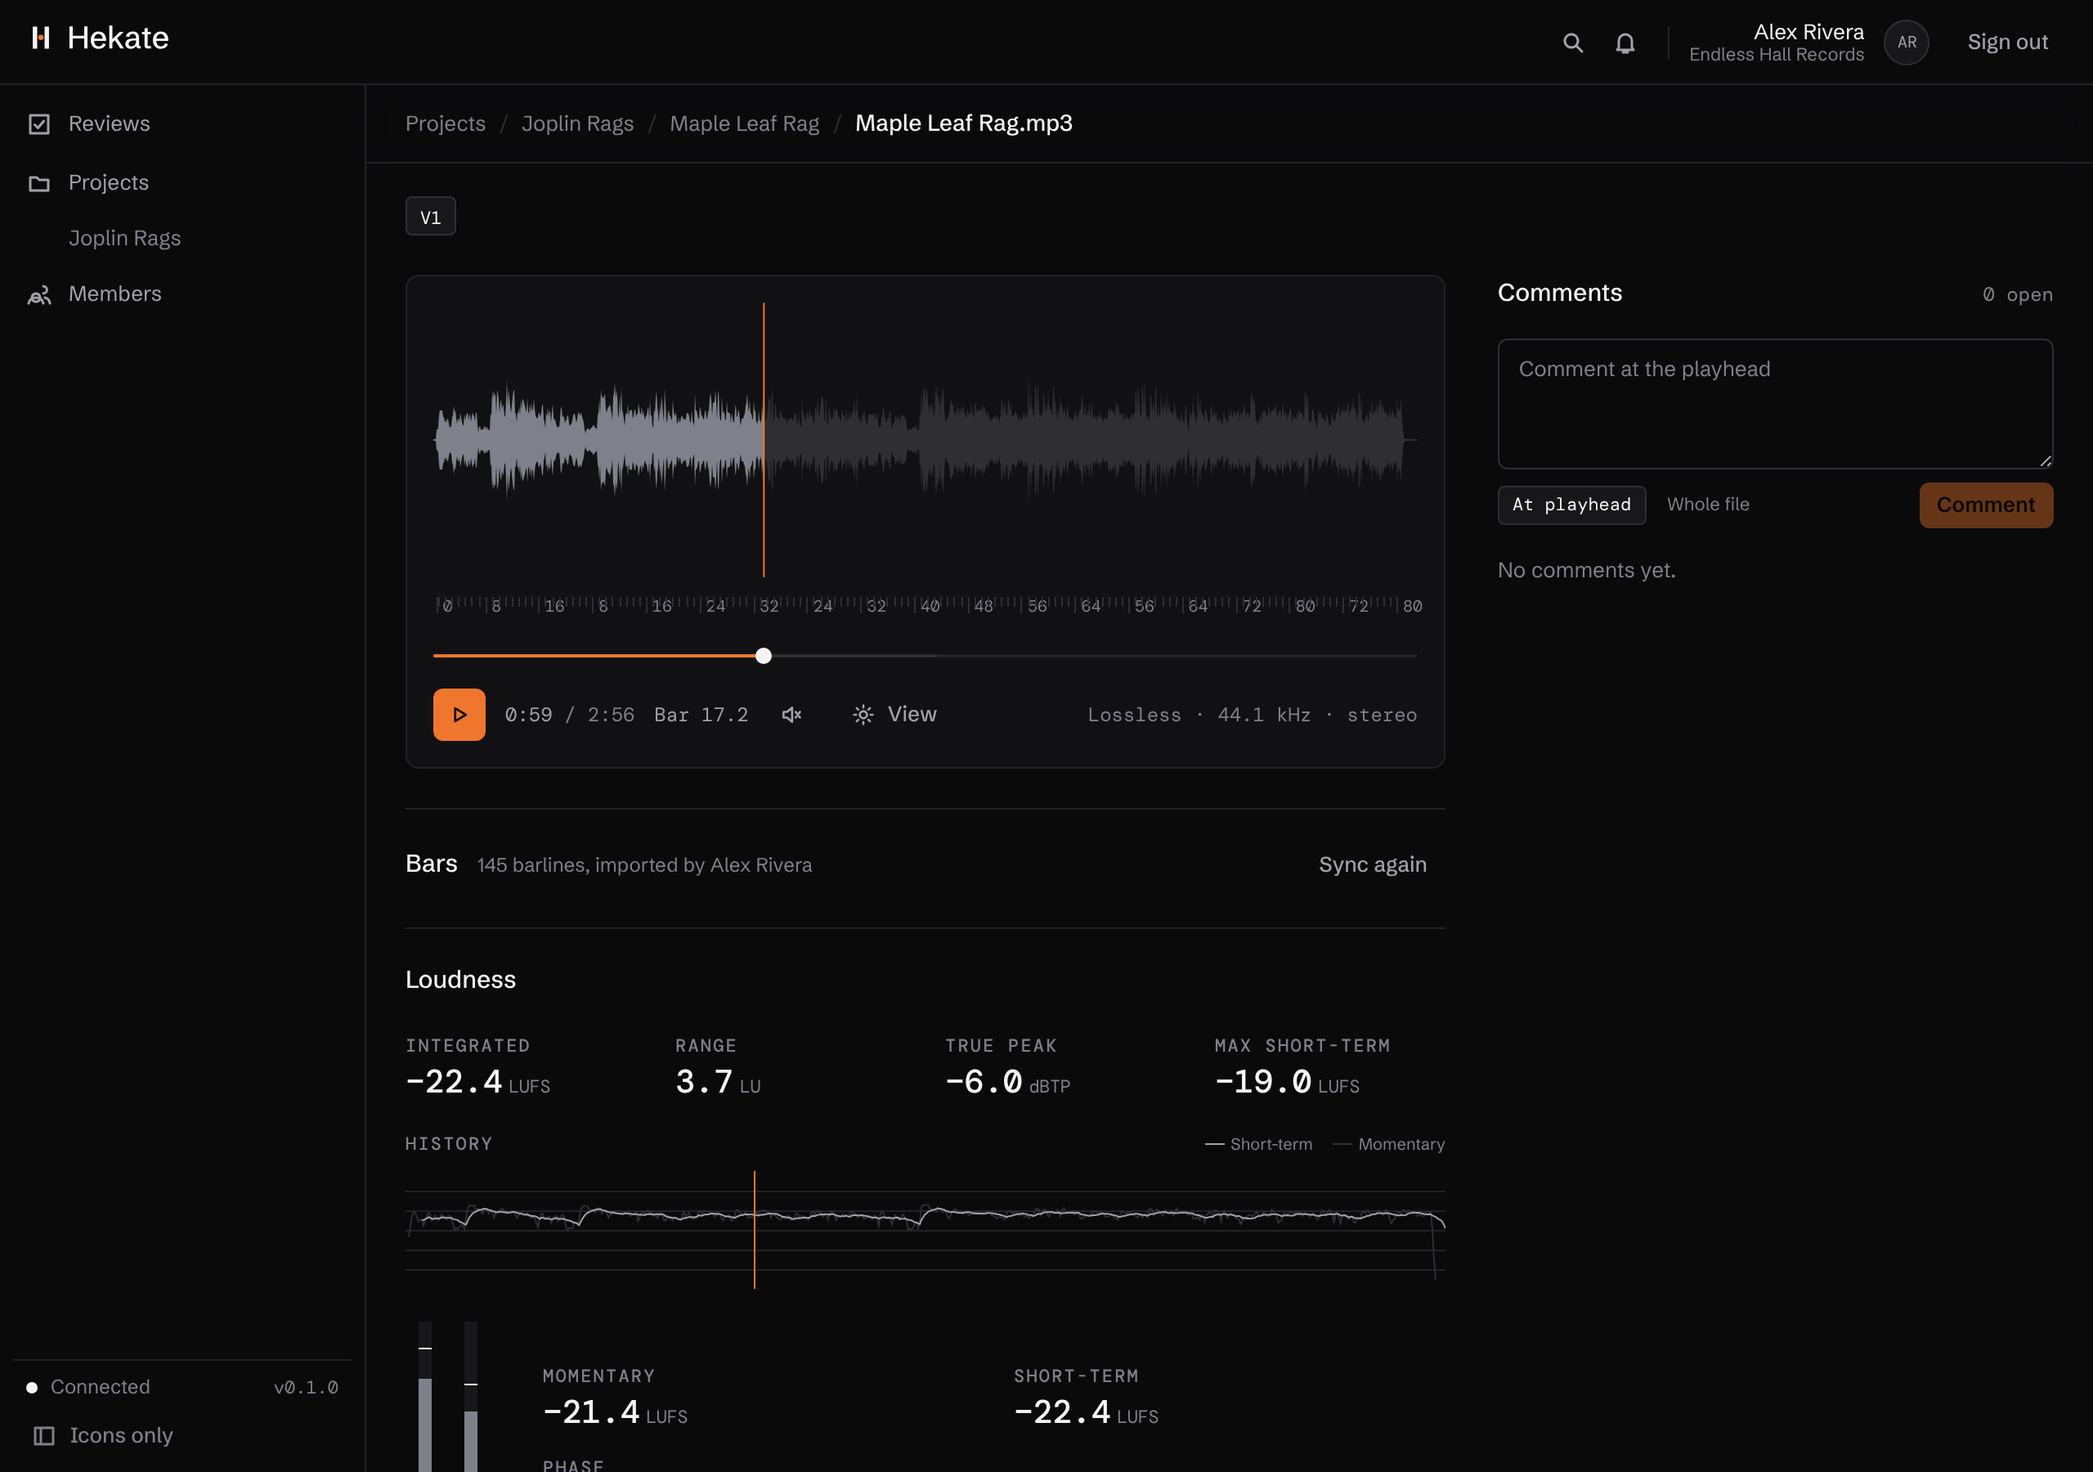
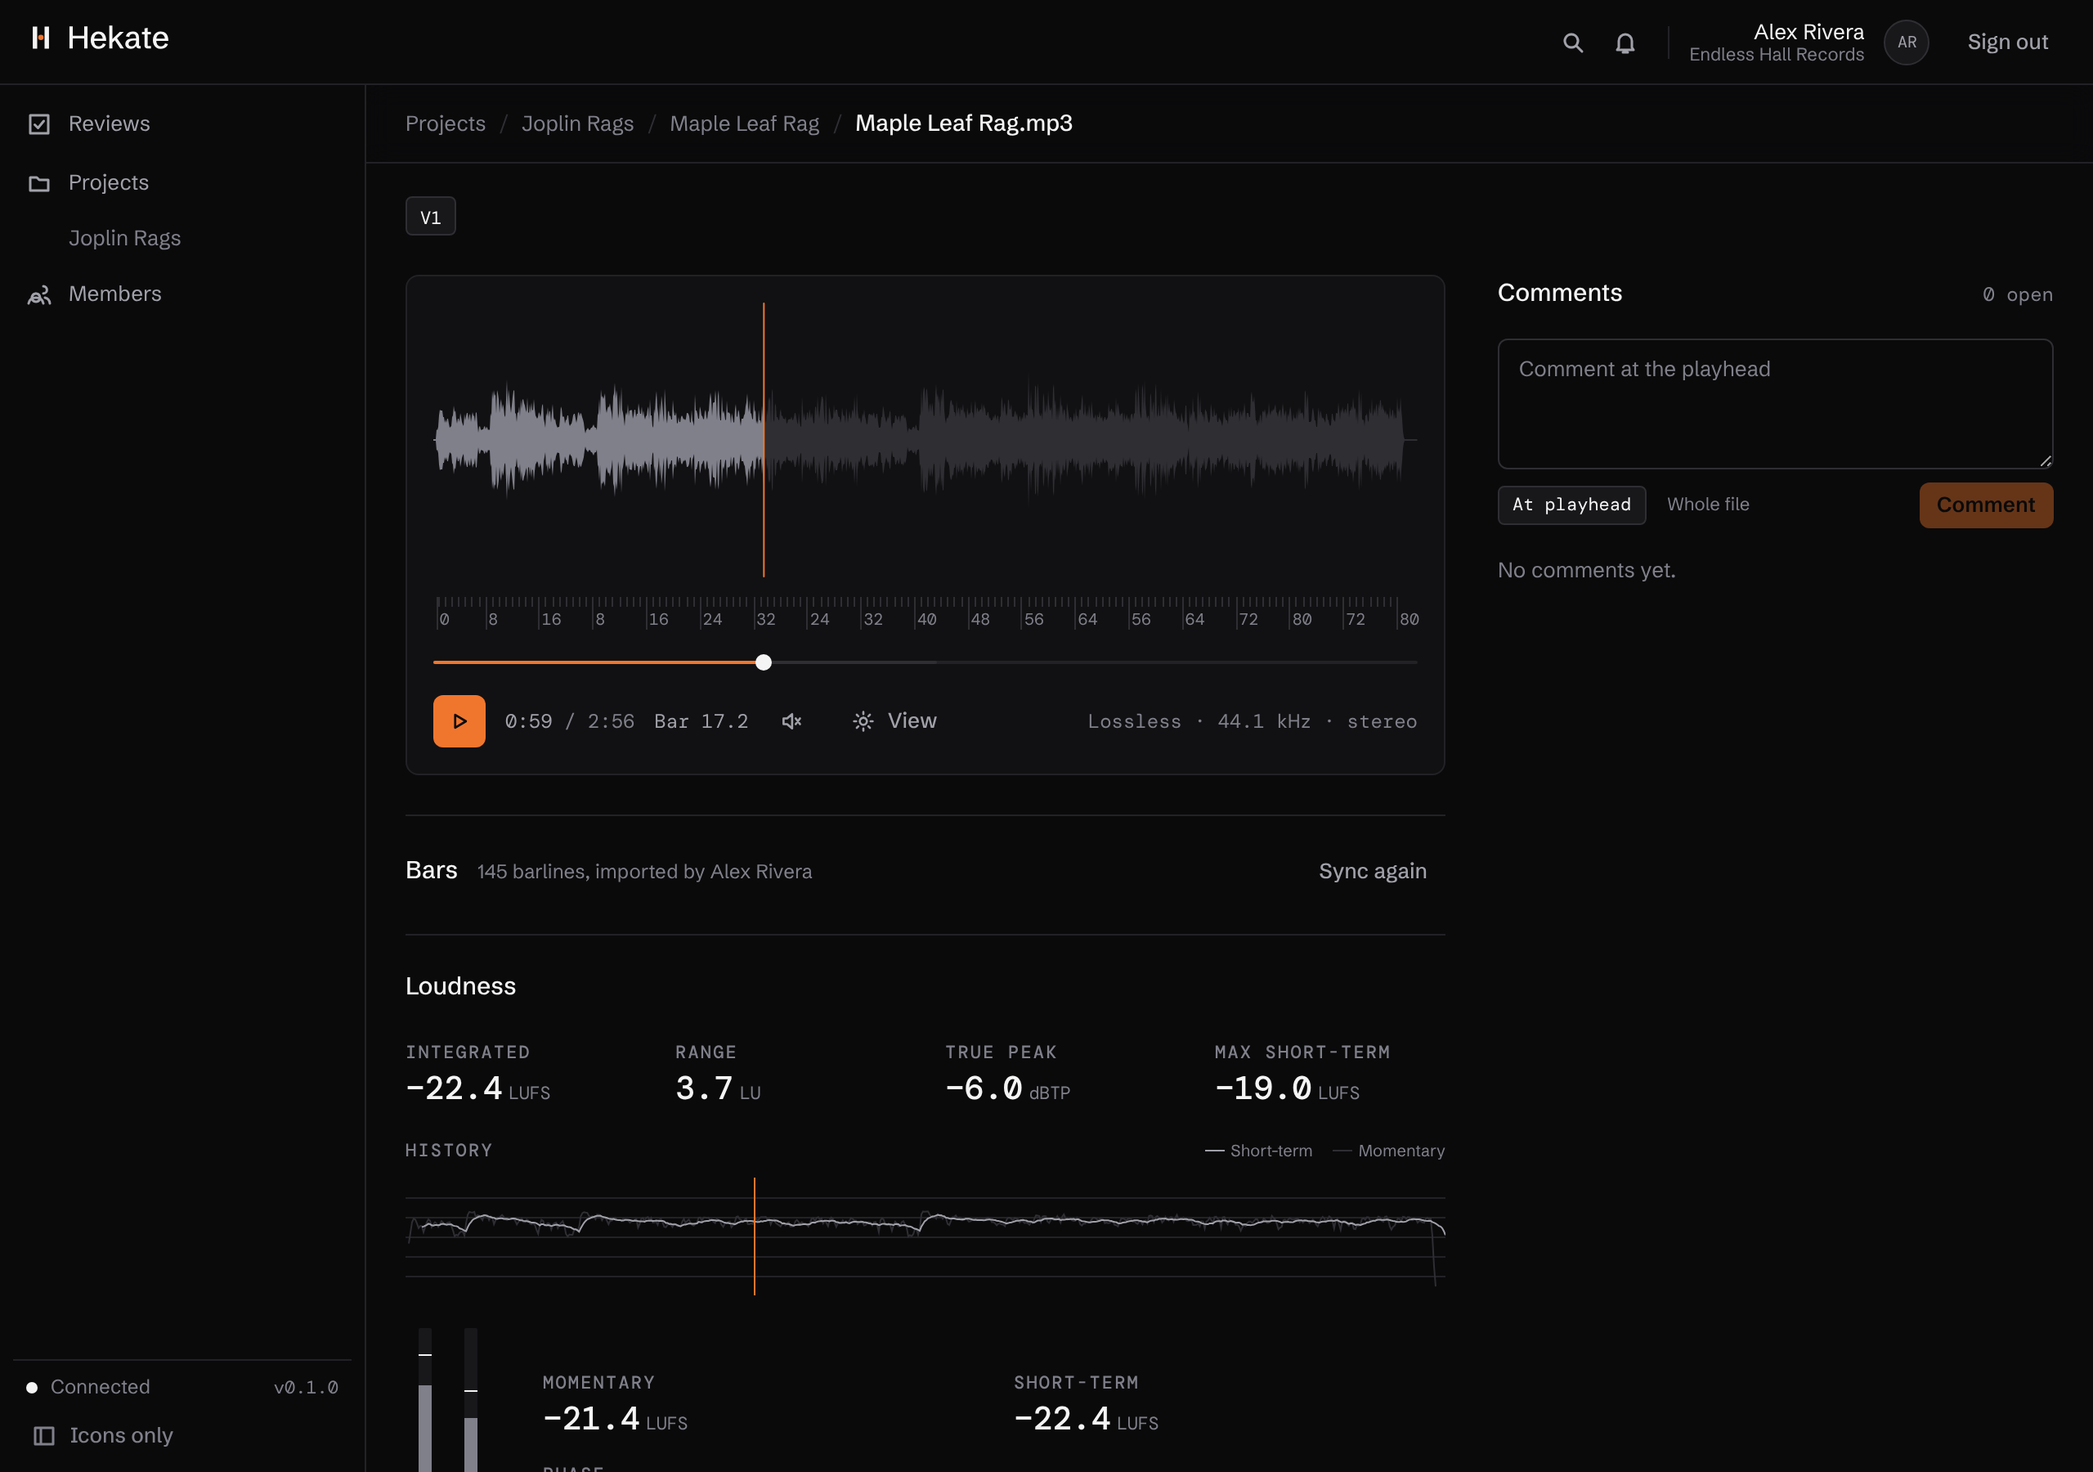
fix: bars only in music projects, comments on an upbeat, a ruler you can hit
- Bar maps and bar comments are refused outside music projects, on the
  server and in the interface; the file detail carries the profile.
- Bar 0, an upbeat, is a valid bar anchor.
- Each number on the bar ruler is a 28 px target, set below the ticks.

Claude-Session: https://claude.ai/code/session_01NFVnDKxWxdqH1wjHhzokRU

diff --git a/apps/server/src/routes/comments.ts b/apps/server/src/routes/comments.ts
@@ -23,7 +23,7 @@ import { NotFound } from "../errors.ts";
 import type { ViewerVariables } from "../guests.ts";
 import type { TenantVariables } from "../tenancy.ts";
 
-const { comments, commentCarries, files, users, guests } = schema;
+const { comments, commentCarries, files, projects, users, guests } = schema;
 const resolver = alias(users, "resolver");
 
 const idParam = zValidator("param", z.object({ id: z.uuid() }));
@@ -177,8 +177,13 @@ export const fileCommentRoutes = (db: Database, audit: Audit, trustProxy: boolea
           mediaInfo: files.mediaInfo,
           pageCount: files.pageCount,
           projectId: files.projectId,
+          profile: projects.profile,
         })
         .from(files)
+        .innerJoin(
+          projects,
+          and(eq(projects.id, files.projectId), eq(projects.organisationId, organisationId)),
+        )
         .where(inOrg(files, organisationId, eq(files.id, c.req.valid("param").id)));
       if (!file) throw new NotFound("File");
 
@@ -234,6 +239,7 @@ export const fileCommentRoutes = (db: Database, audit: Audit, trustProxy: boolea
           kind: file.kind,
           duration: file.mediaInfo?.duration,
           pages: file.pageCount,
+          profile: file.profile,
         });
         if (problem) throw new HTTPException(422, { message: problem });
       }
@@ -350,8 +356,17 @@ export const carryRoutes = (db: Database) =>
       await canOnFile(db, actorOf(c.var), "triage", carry.fileId);
       if (input.anchor) {
         const [file] = await db
-          .select({ kind: files.kind, mediaInfo: files.mediaInfo, pageCount: files.pageCount })
+          .select({
+            kind: files.kind,
+            mediaInfo: files.mediaInfo,
+            pageCount: files.pageCount,
+            profile: projects.profile,
+          })
           .from(files)
+          .innerJoin(
+            projects,
+            and(eq(projects.id, files.projectId), eq(projects.organisationId, organisationId)),
+          )
           .where(inOrg(files, organisationId, eq(files.id, carry.fileId)));
         const problem =
           file &&
@@ -359,6 +374,7 @@ export const carryRoutes = (db: Database) =>
             kind: file.kind,
             duration: file.mediaInfo?.duration,
             pages: file.pageCount,
+            profile: file.profile,
           });
         if (problem) throw new HTTPException(422, { message: problem });
       }

diff --git a/apps/web/src/routes/file.tsx b/apps/web/src/routes/file.tsx
@@ -3,6 +3,7 @@ import {
   formatChannels,
   formatDuration,
   type MediaInfo,
+  profiles,
   type ReviewerTool,
 } from "@hekate/shared";
 import { useQuery, useQueryClient } from "@tanstack/react-query";
@@ -43,6 +44,9 @@ const dateFormat = new Intl.DateTimeFormat("en-GB", {
   minute: "2-digit",
 });
 
+/** Bars belong to music projects: their profile offers the bar ruler (decision 034). */
+const hasBars = (file: FileDetail) => profiles[file.profile].tools.includes("bar-ruler");
+
 function Notice({ children }: { children: ReactNode }) {
   return (
     <div className="rounded-panel border border-hairline bg-surface px-4 py-6 text-sm text-ink-3">
@@ -73,7 +77,7 @@ function Playback({
   // Only a recording plays: asking for a document's playback would log a session for nothing.
   const plays = file.kind === "audio" || file.kind === "video";
   const { data, error } = useQuery({ ...playbackQuery(file.id), enabled: ready && plays });
-  const { data: bars } = useQuery({ ...barMapQuery(file.id), enabled: plays });
+  const { data: bars } = useQuery({ ...barMapQuery(file.id), enabled: plays && hasBars(file) });
   if (pages) {
     // Seen only as pages the server draws: never the file itself.
     if (file.streamStatus === "ready")
@@ -168,7 +172,7 @@ export function FilePage({
   });
   const { data: barMap } = useQuery({
     ...barMapQuery(fileId),
-    enabled: file?.kind === "audio" || file?.kind === "video",
+    enabled: Boolean(file && hasBars(file) && (file.kind === "audio" || file.kind === "video")),
   });
   if (error) return <p className="p-8 text-signal">{error.message}</p>;
   if (!file) return <p className="p-8 text-ink-3">Loading</p>;
@@ -187,7 +191,10 @@ export function FilePage({
   const comparable = !guest && file.kind === "audio" && file.streamStatus === "ready";
   /** A recording members can sync to its score; guests see its bars in the player only. */
   const syncable =
-    !guest && (file.kind === "audio" || file.kind === "video") && file.streamStatus === "ready";
+    !guest &&
+    hasBars(file) &&
+    (file.kind === "audio" || file.kind === "video") &&
+    file.streamStatus === "ready";
   /** Loop the passage and hear it from where it began; one key then flips to this version. */
   const beforeAfter = (target: BeforeAfter) => {
     setFocus({ fileId: target.fileId, shift: target.shift, nonce: Date.now() });

diff --git a/apps/server/src/app.test.ts b/apps/server/src/app.test.ts
@@ -3337,6 +3337,49 @@ describe.runIf(url)("api", () => {
 
         expect((await send("DELETE", bars(dry), undefined, owner)).status).toBe(204);
         expect(await read(wet)).toBeNull();
+
+        // An upbeat is bar 0, and a comment can point at it.
+        expect(
+          (
+            await app.request(
+              `/api/files/${dry}/comments`,
+              json({ body: "Upbeat too heavy", anchor: { kind: "bar", from: { bar: 0 } } }, owner),
+            )
+          ).status,
+        ).toBe(201);
+
+        // Bars belong to music projects: a video project's recording has neither map nor bar comments.
+        const [film] = await db
+          .insert(schema.projects)
+          .values({ organisationId, name: "Trailer", profile: "video" })
+          .returning();
+        const cut = await storage.put(organisationId, Buffer.from("not really video"));
+        const [clip] = await db
+          .insert(schema.files)
+          .values({
+            organisationId,
+            projectId: film?.id ?? "",
+            name: "Trailer v1.mov",
+            kind: "video",
+            blobId: cut.id,
+            contentType: "video/quicktime",
+            byteSize: cut.byteSize,
+            mediaInfo: { duration: 60 },
+          })
+          .returning();
+        expect((await send("PUT", bars(clip?.id ?? ""), map, owner)).status).toBe(422);
+        expect(
+          (
+            await app.request(
+              `/api/files/${clip?.id}/comments`,
+              json({ body: "x", anchor: { kind: "bar", from: { bar: 3 } } }, owner),
+            )
+          ).status,
+        ).toBe(422);
+        const detail = (await (
+          await app.request(`/api/files/${clip?.id}`, { headers: { cookie: owner } })
+        ).json()) as { file: { profile: string } };
+        expect(detail.file.profile).toBe("video");
       });
 
       it("lets only the author edit, anyone who triages resolve, and no one reach another organisation", async () => {

diff --git a/apps/server/src/routes/bars.ts b/apps/server/src/routes/bars.ts
@@ -1,5 +1,5 @@
 import { type Database, inOrg, schema } from "@hekate/db";
-import { type BarMap, type BarMapSource, saveBarMapInput } from "@hekate/shared";
+import { type BarMap, type BarMapSource, profiles, saveBarMapInput } from "@hekate/shared";
 import { zValidator } from "@hono/zod-validator";
 import { and, desc, eq, ne } from "drizzle-orm";
 import { alias } from "drizzle-orm/pg-core";
@@ -10,7 +10,7 @@ import { canOnFile } from "../access.ts";
 import { NotFound } from "../errors.ts";
 import type { ViewerVariables } from "../guests.ts";
 
-const { barMaps, files, users, variations } = schema;
+const { barMaps, files, projects, users, variations } = schema;
 const sibling = alias(variations, "sibling");
 
 const idParam = zValidator("param", z.object({ id: z.uuid() }));
@@ -93,10 +93,17 @@ export const fileBarRoutes = (db: Database) =>
       await canOnFile(db, actor, "organise", id);
       const organisationId = c.var.organisationId;
       const [file] = await db
-        .select({ kind: files.kind, mediaInfo: files.mediaInfo })
+        .select({ kind: files.kind, mediaInfo: files.mediaInfo, profile: projects.profile })
         .from(files)
+        .innerJoin(
+          projects,
+          and(eq(projects.id, files.projectId), eq(projects.organisationId, organisationId)),
+        )
         .where(inOrg(files, organisationId, eq(files.id, id)));
       if (!file) throw new NotFound("File");
+      if (!profiles[file.profile].tools.includes("bar-ruler")) {
+        throw new HTTPException(422, { message: "Bars belong to music projects" });
+      }
       if (file.kind !== "audio" && file.kind !== "video") {
         throw new HTTPException(422, { message: "Only recordings have bars in time" });
       }

diff --git a/apps/web/src/components/bars.tsx b/apps/web/src/components/bars.tsx
@@ -42,7 +42,7 @@ export function BarRuler({
   const share = (t: number) => `${Math.min(100, (t / duration) * 100)}%`;
   const numbered = new Set(rulerBars(map, duration, width));
   return (
-    <nav ref={ruler} className="relative h-4" aria-label="Bars">
+    <nav ref={ruler} className="relative h-5" aria-label="Bars">
       {map.points.map(([t, bar], i) => (
         <div
           // Barlines repeat their numbers in a repeat: the index keeps them apart.
@@ -51,13 +51,14 @@ export function BarRuler({
           className="absolute top-0"
           style={{ left: share(t) }}
         >
-          <div aria-hidden className={cn("w-px bg-edge", numbered.has(i) ? "h-2.5" : "h-1.5")} />
+          <div aria-hidden className={cn("w-px bg-edge", numbered.has(i) ? "h-5" : "h-1.5")} />
           {numbered.has(i) && (
+            // A 28 px target around the small number, so it can be hit on a phone.
             <button
               type="button"
               onClick={() => onSeek(t)}
               aria-label={`Play from bar ${bar}`}
-              className="tabular absolute top-0 left-1 cursor-pointer border-0 bg-transparent p-0 font-mono text-[10px] leading-3 text-ink-3 hover:text-ink"
+              className="tabular absolute -top-1 -left-2.5 flex h-7 min-w-7 cursor-pointer items-start justify-start rounded-chip border-0 bg-transparent px-3 pt-3 font-mono text-[10px] leading-3 text-ink-3 outline-none hover:text-ink focus-visible:ring-1 focus-visible:ring-signal"
             >
               {bar}
             </button>

diff --git a/apps/server/src/routes/playback.ts b/apps/server/src/routes/playback.ts
@@ -2,7 +2,7 @@ import { type Database, inOrg, schema } from "@hekate/db";
 import type { ReviewerTool } from "@hekate/shared";
 import { unwrapKey } from "@hekate/storage";
 import { zValidator } from "@hono/zod-validator";
-import { asc, eq } from "drizzle-orm";
+import { and, asc, eq } from "drizzle-orm";
 import { Hono } from "hono";
 import { createMiddleware } from "hono/factory";
 import { HTTPException } from "hono/http-exception";
@@ -38,6 +38,7 @@ const {
   variations,
   versions,
   tracks,
+  projects,
 } = schema;
 
 export interface PlaybackDeps {
@@ -115,8 +116,14 @@ export const fileRoutes = (deps: PlaybackDeps) =>
           pageCount: files.pageCount,
           uploadedBy: users.name,
           createdAt: files.createdAt,
+          /** The project's profile decides which tools the file page offers. */
+          profile: projects.profile,
         })
         .from(files)
+        .innerJoin(
+          projects,
+          and(eq(projects.id, files.projectId), eq(projects.organisationId, c.var.organisationId)),
+        )
         .leftJoin(users, eq(files.uploadedBy, users.id))
         .where(inOrg(files, c.var.organisationId, eq(files.id, c.req.valid("param").id)));
       if (!file) throw new NotFound("File");

diff --git a/packages/shared/src/comments.ts b/packages/shared/src/comments.ts
@@ -1,6 +1,7 @@
 import { z } from "zod";
 import { type Anchor, anchor } from "./anchor.ts";
 import type { FileKind } from "./files.ts";
+import { allowsAnchor, type ProjectProfile } from "./profile.ts";
 
 /** A comment's text: trimmed, never empty, at most 10,000 characters. */
 export const commentBody = z
@@ -40,9 +41,17 @@ const END_TOLERANCE = 0.5;
  */
 export function anchorProblem(
   value: Anchor,
-  /** `pages` is how many pages a document was drawn with, once it has been. */
-  file: { kind: FileKind; duration?: number; pages?: number | null },
+  /**
+   * `pages` is how many pages a document was drawn with, once it has been; `profile`, the
+   * project's, which decides whether bars are offered at all.
+   */
+  file: { kind: FileKind; duration?: number; pages?: number | null; profile?: ProjectProfile },
 ): string | null {
+  if (file.profile && !allowsAnchor(file.profile, value.kind)) {
+    return value.kind === "bar"
+      ? "Bars belong to music projects"
+      : "This project has no such anchor";
+  }
   switch (value.kind) {
     case "time":
       if (file.kind !== "audio" && file.kind !== "video")

diff --git a/packages/shared/src/anchor.ts b/packages/shared/src/anchor.ts
@@ -39,7 +39,8 @@ export const regionAnchor = z
   });
 
 const barPosition = z.object({
-  bar: z.number().int().positive(),
+  /** Bar 0 is an upbeat, before the first full bar. */
+  bar: z.number().int().nonnegative(),
   /** 1-based beat within the bar; fractional beats are allowed for off-beat positions. */
   beat: z.number().positive().default(1),
 });
@@ -49,7 +50,7 @@ export const barAnchor = z
     kind: z.literal("bar"),
     from: barPosition,
     /** End of a bar range, inclusive. Omitted for a single bar position. */
-    to: z.object({ bar: z.number().int().positive() }).optional(),
+    to: z.object({ bar: z.number().int().nonnegative() }).optional(),
   })
   .refine((a) => a.to === undefined || a.to.bar >= a.from.bar, {
     message: "a bar range must not end before it starts",

diff --git a/packages/shared/src/comments.test.ts b/packages/shared/src/comments.test.ts
@@ -40,6 +40,8 @@ describe("comments", () => {
     expect(anchorProblem(nowhere, { kind: "image" })).toBeNull();
     const bar = { kind: "bar" as const, from: { bar: 72, beat: 1 } };
     expect(anchorProblem(bar, { kind: "audio" })).toBeNull();
+    expect(anchorProblem(bar, { kind: "audio", profile: "music" })).toBeNull();
+    expect(anchorProblem(bar, { kind: "audio", profile: "video" })).toMatch(/music projects/);
     expect(anchorProblem(bar, { kind: "image" })).toMatch(/recording or a score/);
   });
 

diff --git a/packages/shared/src/anchor.test.ts b/packages/shared/src/anchor.test.ts
@@ -9,6 +9,9 @@ describe("anchor schema", () => {
     expect(
       anchor.parse({ kind: "region", page: 7, x: 0.1, y: 0.1, width: 0.2, height: 0.1 }).kind,
     ).toBe("region");
+    // An upbeat is bar 0.
+    expect(anchor.safeParse({ kind: "bar", from: { bar: 0 } }).success).toBe(true);
+    expect(anchor.safeParse({ kind: "bar", from: { bar: -1 } }).success).toBe(false);
     expect(anchor.parse({ kind: "bar", from: { bar: 112 } })).toEqual({
       kind: "bar",
       from: { bar: 112, beat: 1 },

diff --git a/apps/web/src/lib/queries.ts b/apps/web/src/lib/queries.ts
@@ -330,6 +330,8 @@ export const projectFilesQuery = (projectId: string) =>
 
 export interface FileDetail extends ProjectFile {
   projectId: string;
+  /** The project's profile, which decides the tools offered (bars only for music). */
+  profile: ProjectProfile;
   /** Where the file sits in the music model, when it is a variation of a version. */
   variation: {
     id: string;
